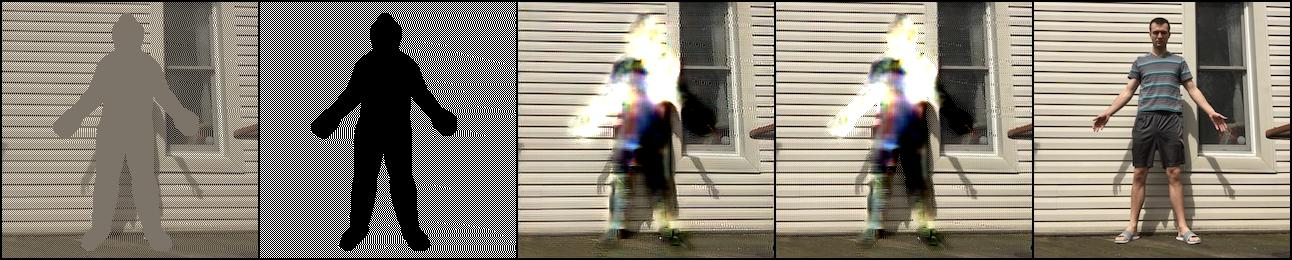
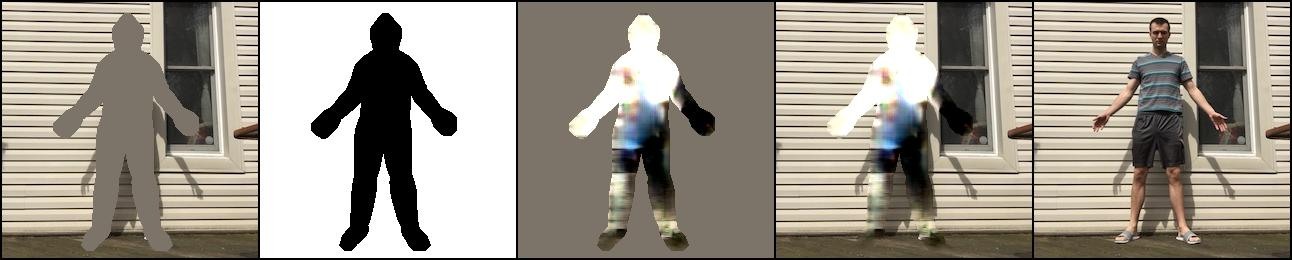
Added unet.py

diff --git a/backgroundInpainting/unet.py b/backgroundInpainting/unet.py
@@ -1,0 +1,216 @@
+import torch.nn as nn
+import torch
+import pdb
+import argparse
+from PIL import Image
+import torchvision.transforms as transforms
+import numpy as np
+from scipy import ndimage
+
+
+
+class UNet(nn.Module):
+    """
+    UNet for background image inpainting
+    """
+    def __init__(self, in_c=28, input_shape=256, nf_enc=[64]*2+[128]*9, nf_dec=[128]*4 + [64]):
+        super().__init__()
+        self.conv0 = nn.Sequential(
+            nn.Conv2d(in_channels=in_c, out_channels=nf_enc[0], kernel_size=7, padding=3, stride=1),
+            torch.nn.LeakyReLU()
+        )
+        self.conv1 = nn.Sequential(
+            nn.Conv2d(in_channels=nf_enc[0], out_channels=nf_enc[1], kernel_size=3, padding=1,stride=2),
+            torch.nn.LeakyReLU()               
+        )
+        self.conv2 = nn.Sequential(
+            nn.Conv2d(in_channels=nf_enc[1], out_channels=nf_enc[2], kernel_size=3, padding=1,stride=1),
+            torch.nn.LeakyReLU()              
+        )
+        self.conv3 = nn.Sequential(
+            nn.Conv2d(in_channels=nf_enc[2], out_channels=nf_enc[3], kernel_size=3, padding=1,stride=2),
+            torch.nn.LeakyReLU()              
+        )
+        self.conv4 = nn.Sequential(
+            nn.Conv2d(in_channels=nf_enc[3], out_channels=nf_enc[4], kernel_size=3, padding=1,stride=1),
+            torch.nn.LeakyReLU()              
+        )
+        self.conv5 = nn.Sequential(
+            nn.Conv2d(in_channels=nf_enc[4], out_channels=nf_enc[5], kernel_size=3, padding=1,stride=2),
+            torch.nn.LeakyReLU()              
+        )
+        self.conv6 = nn.Sequential(
+            nn.Conv2d(in_channels=nf_enc[5], out_channels=nf_enc[6], kernel_size=3, padding=1,stride=1),
+            torch.nn.LeakyReLU()              
+        )
+        self.conv7 = nn.Sequential(
+            nn.Conv2d(in_channels=nf_enc[6], out_channels=nf_enc[7], kernel_size=3, padding=1,stride=2),
+            torch.nn.LeakyReLU()              
+        )
+        self.conv8 = nn.Sequential(
+            nn.Conv2d(in_channels=nf_enc[7], out_channels=nf_enc[8], kernel_size=3, padding=1,stride=1),
+            torch.nn.LeakyReLU()              
+        )
+        self.conv9 = nn.Sequential(
+            nn.Conv2d(in_channels=nf_enc[8], out_channels=nf_enc[9], kernel_size=3, padding=1,stride=2),
+            torch.nn.LeakyReLU()              
+        )
+        self.conv10 = nn.Sequential(
+            nn.Conv2d(in_channels=nf_enc[9], out_channels=nf_enc[10], kernel_size=3, padding=1,stride=1),
+            torch.nn.LeakyReLU()              
+        )
+
+        self.deconv0 = nn.Sequential(
+            nn.Conv2d(in_channels=nf_enc[10]+nf_enc[8], out_channels=nf_dec[0], kernel_size=3, padding=1,stride=1),
+            torch.nn.LeakyReLU()              
+        )
+        self.deconv1 = nn.Sequential(
+            nn.Conv2d(in_channels=nf_dec[0]+nf_enc[6], out_channels=nf_dec[1], kernel_size=3, padding=1,stride=1),
+            torch.nn.LeakyReLU()              
+        )
+        self.deconv2 = nn.Sequential(
+            nn.Conv2d(in_channels=nf_dec[1]+nf_enc[4], out_channels=nf_dec[2], kernel_size=3, padding=1,stride=1),
+            torch.nn.LeakyReLU()              
+        )
+        self.deconv3 = nn.Sequential(
+            nn.Conv2d(in_channels=nf_dec[2]+nf_enc[2], out_channels=nf_dec[3], kernel_size=3, padding=1,stride=1),
+            torch.nn.LeakyReLU()              
+        )
+        self.deconv4 = nn.Sequential(
+            nn.Conv2d(in_channels=nf_dec[3]+nf_enc[0], out_channels=nf_dec[4], kernel_size=3, padding=1,stride=1),
+            torch.nn.LeakyReLU()              
+        )
+
+        self.finalConv = nn.Sequential(
+            nn.Conv2d(in_channels=nf_dec[4], out_channels=3, kernel_size=3, padding=1,stride=1),
+            torch.nn.Tanh()              
+        )
+
+        self.upSample = nn.Upsample(scale_factor=2, mode='bilinear', align_corners=True)
+        
+        # Init weights using Xavier
+        self._initialize_weights()
+
+    def _initialize_weights(self):
+        for m in self.modules():
+            if isinstance(m, nn.Conv2d):
+                nn.init.xavier_uniform_(m.weight)
+                if m.bias is not None:
+                    nn.init.constant_(m.bias, 0.)
+
+    def forward(self, image, mask, pose):
+        """ Input:
+            image (batch_sizex3x256x256)
+            mask (batch_sizex1x256x256)
+            pose (batch_sizex24x256x256)
+        """
+        # self.img_features.eval()
+        # img_feats = self.img_features(image) #no dropout for feature extraction
+        # if isinstance(img_feats, tuple):
+        #     img_feats = img_feats[2]
+        # text_feats = self.text_features(question_encoding)
+        x_in = torch.cat((image, mask, pose),dim=1) #256
+        x0 = self.conv0(x_in) #256
+        x1 = self.conv1(x0)
+        x2 = self.conv2(x1) #128
+        x3 = self.conv3(x2) 
+        x4 = self.conv4(x3) #64
+        x5 = self.conv5(x4)
+        x6 = self.conv6(x5) #32
+        x7 = self.conv7(x6)
+        x8 = self.conv8(x7) #16
+        x9 = self.conv9(x8)
+        xenc = self.conv10(x9) #8
+
+        x = self.upSample(xenc)
+        x = torch.cat((x, x8),dim=1)
+        x = self.deconv0(x) #16
+
+
+        x = self.upSample(x)
+        x = torch.cat((x, x6),dim=1)
+        x = self.deconv1(x) #32
+
+        x = self.upSample(x)
+        x = torch.cat((x, x4),dim=1)
+        x = self.deconv2(x) #64
+
+        x = self.upSample(x)
+        x = torch.cat((x, x2),dim=1)
+        x = self.deconv3(x) #128
+
+        x = self.upSample(x)
+        x = torch.cat((x, x0),dim=1)
+        x = self.deconv4(x) #256, channels=64
+        xfinal = self.finalConv(x) #channels now at 3
+        # print(xfinal.shape) 
+        # Output: torch.Size([batch_size, 3, 256, 256])
+        return xfinal
+
+"""
+
+def unet(x_in, pose_in, nf_enc, nf_dec):
+    x0 = my_conv(x_in, nf_enc[0], ks=7)  # 256
+    x1 = my_conv(x0, nf_enc[1], strides=2)  # 128
+    x2 = concatenate([x1, pose_in])
+    x3 = my_conv(x2, nf_enc[2])
+    x4 = my_conv(x3, nf_enc[3], strides=2)  # 64
+    x5 = my_conv(x4, nf_enc[4])
+    x6 = my_conv(x5, nf_enc[5], strides=2)  # 32
+    x7 = my_conv(x6, nf_enc[6])
+    x8 = my_conv(x7, nf_enc[7], strides=2)  # 16
+    x9 = my_conv(x8, nf_enc[8])
+    x10 = my_conv(x9, nf_enc[9], strides=2)  # 8
+    x = my_conv(x10, nf_enc[10])
+
+    skips = [x9, x7, x5, x3, x0]
+    filters = [nf_enc[10], nf_dec[0], nf_dec[1], nf_dec[2], nf_enc[3]]
+
+    for i in range(5):
+        out_sz = 8*(2**(i+1))
+        x = Lambda(interp_upsampling, output_shape = (out_sz, out_sz, filters[i]))(x)
+        x = concatenate([x, skips[i]])
+        x = my_conv(x, nf_dec[i])
+
+    return x
+
+def my_conv(x_in, nf, ks=3, strides=1, activation='lrelu', name=None):
+        x_out = Conv2D(nf, kernel_size=ks, padding='same', strides=strides)(x_in)
+
+        if activation == 'lrelu':
+            x_out = LeakyReLU(0.2, name=name)(x_out)
+        elif activation != 'none':
+            x_out = Activation(activation, name=name)(x_out)
+
+        return x_out
+
+# Background creation
+x = unet(concatenate([bg_src, bg_src_mask]), pose_src, [64]*2 + [128]*9, [128]*4 + [64])
+"""
+
+if __name__ == "__main__":
+    parser = argparse.ArgumentParser(description='Test UNet')
+    parser.add_argument('--imPath', type=str, default='../posewarp/data/hunter_256.jpeg')
+    parser.add_argument('--maskPath', type=str, default='../posewarp/data/hunter_256_IUV.npy')
+    args = parser.parse_args()
+
+    # img = Image.open(args.imPath)
+    # img = transforms.ToTensor()(img.convert('RGB'))
+    # img = img.cuda(async=True)
+
+    img = np.ones((1,3,256,256), dtype=np.float32)
+    img = torch.from_numpy(img).cuda(async=True)
+
+    mask = np.ones((1,1,256,256), dtype=np.float32)
+    mask = torch.from_numpy(mask).cuda(async=True)
+
+    pose = np.ones((1,24,256,256), dtype=np.float32)
+    pose = torch.from_numpy(pose).cuda(async=True)
+
+    model = UNet().cuda()
+
+    model.eval()
+    output = model(img,mask,pose)
+    print(output.shape)
+
+

diff --git a/backgroundInpainting/customDataset.py b/backgroundInpainting/customDataset.py
@@ -26,13 +26,15 @@ class customData(torch.utils.data.Dataset):
         mask = mask[:,:,0] > 1.
         mask = ndimage.binary_dilation(mask, iterations=5).astype(np.float32)
         mask = mask == 0.
-        mask = Image.fromarray(mask.astype(np.float32) * 255).convert('1')
-        mask = self.mask_transform(mask)
+        mask = mask.astype(np.float32)
+        mask = np.array([mask, mask, mask], dtype=np.float32)
+        #pdb.set_trace()
+        mask = transforms.ToPILImage()(torch.from_numpy(mask))
+        #mask = Image.fromarray(mask.astype(np.float32) * 255)#.convert('1')
+        #pdb.set_trace()
+        mask = self.mask_transform(mask.convert('RGB'))
         
-        masked_im = gt_img
-        masked_im[0,:,:] *= mask
-        masked_im[1,:,:] *= mask
-        masked_im[2,:,:] *= mask
+        masked_im = gt_img * mask
         # finalMask = torch.zeros_like(mask, dtype=torch.float32)
         # background = mask == 0.
         # finalMask = finalMask.masked_fill_(background, 1.0)

diff --git a/backgroundInpainting/evaluation.py b/backgroundInpainting/evaluation.py
@@ -31,6 +31,6 @@ def evaluateCustom(model, dataset, device, filename):
     output_comp = mask * image + (1 - mask) * output
 
     grid = make_grid(
-        torch.cat((unnormalize(image), mask, unnormalize(output),
+        torch.cat((unnormalize(image), mask, unnormalize((1 - mask) * output),
                    unnormalize(output_comp), unnormalize(gt)), dim=0))
     save_image(grid, filename)
